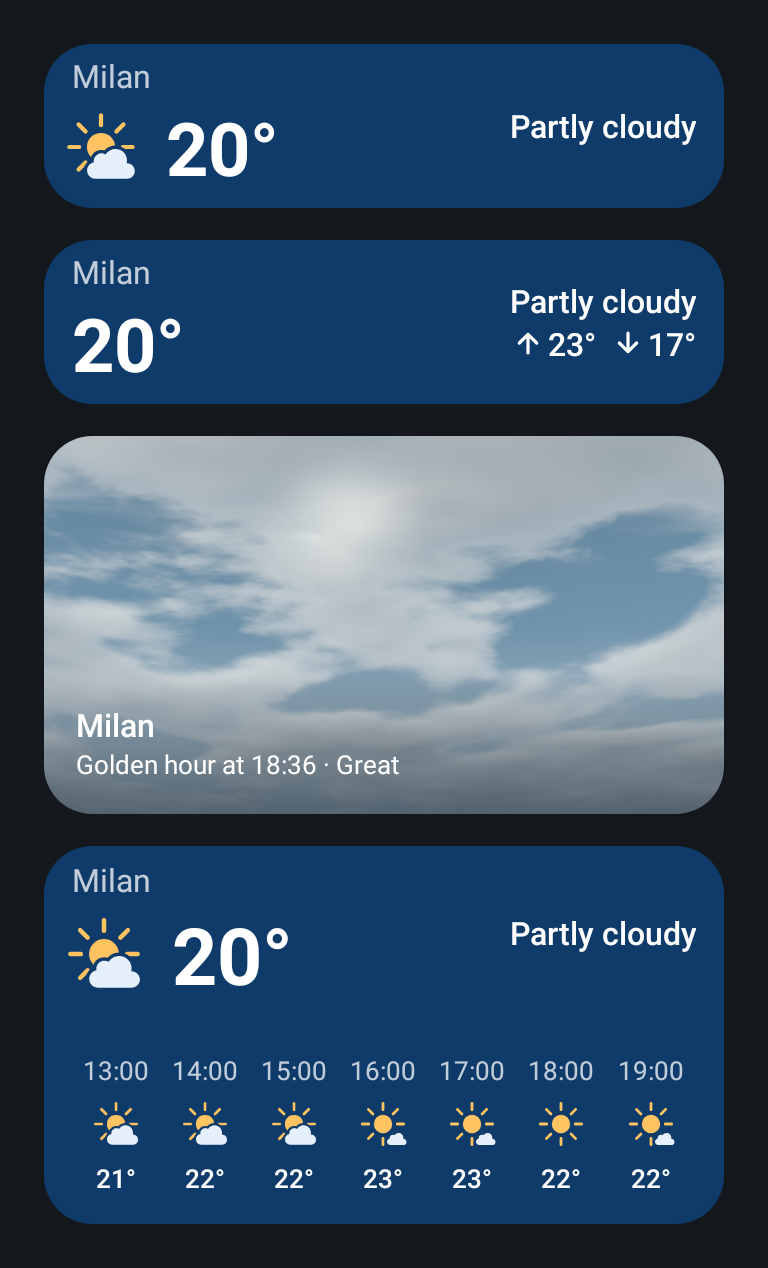
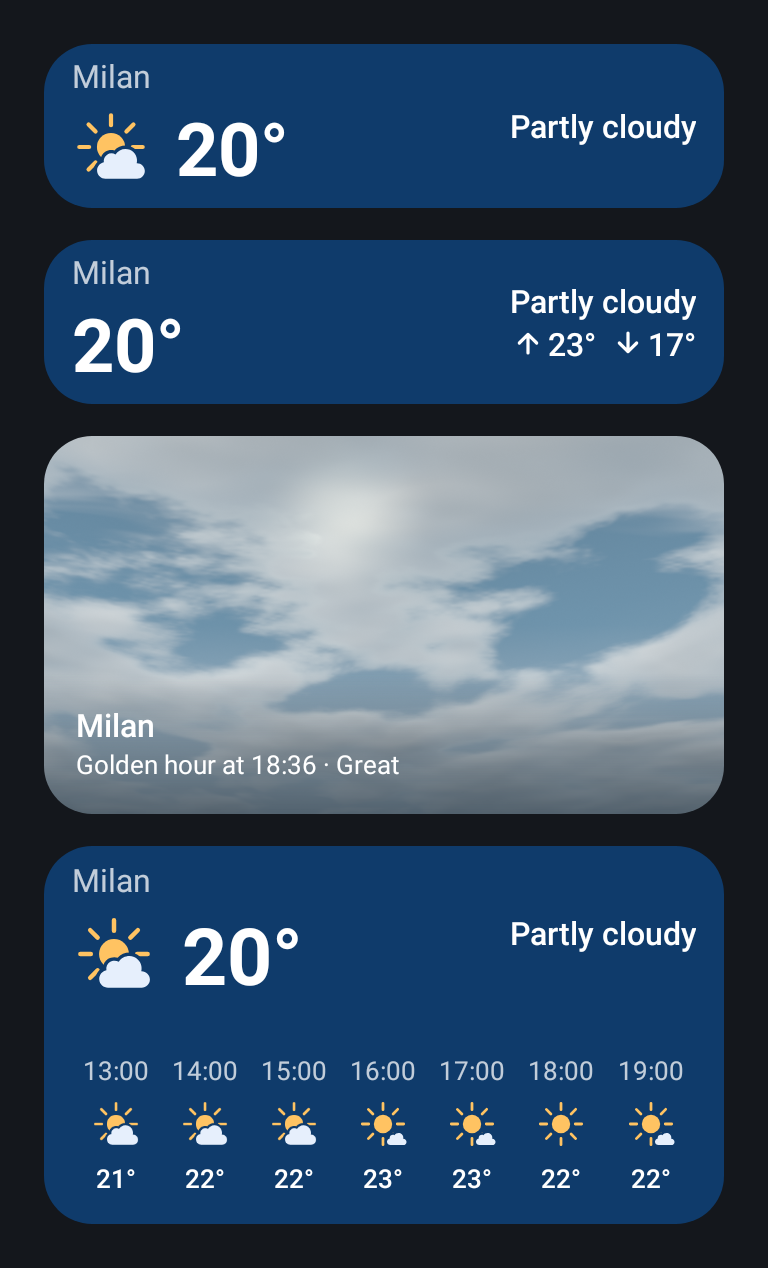
«A colpo d'occhio»: the glyph stands five dp further in
The row's glyph box starts at the card's 4 dp inset and counts on the margin a
drawing keeps inside its box, a share of the box: on the 52 dp glyph of 15 Nov a
cloud's ink stood 8.8 dp from the card's edge under a place that starts at 14.
With NowGlyphShift a cloud's ink is at 13.8, the snow's at 13.3, the sun's at 17.
One number for every drawing; it comes out of the number's line, and no number
changes size on a launcher's 82 dp row. The picker preview follows.

NowWidgetLayoutTest covers it; widgets.png regenerated, the other pictures
identical. DESIGN, CHANGELOG and PLANNING updated, a phone box opened.

diff --git a/app/src/main/kotlin/com/callbackdev/chiaro/widget/NowWidgetLayout.kt b/app/src/main/kotlin/com/callbackdev/chiaro/widget/NowWidgetLayout.kt
@@ -76,14 +76,15 @@ internal val TallMinHeight = 150.dp
  * **What the glyph takes is the number's line, and nothing else.** It stands in front of
  * the number at the number's own line box (39.3 sp is 51.9 dp on the reference 85 dp row),
  * so the place keeps its whole column and the sentence keeps its whole measure; the number
- * moves right by the glyph and its gap, which the 168 dp column has room for at every
- * number this app prints (52 + 8 + 83 for «−12°» is 143). The one thing that is not the
+ * moves right by the glyph, its inset and its gap, which the 168 dp column has room for at
+ * every number this app prints (5 + 52 + 8 + 83 for «−12°» is 148). The one thing that is not the
  * text card's is the warning: here it is the coloured chip, as on every card with a drawing
  * on it, and the column pays the chip's box for it ([warningBlock]).
  *
  * The card's leading inset is the glyph's 4 dp ([WidgetCardPaddingLeading]) and every line
- * of words pays back [NowGlyphEdgeGive], so the glyph's ink and the place's first letter
- * stand on one edge, 14 dp in, as the text card's words do.
+ * of words pays back [NowGlyphEdgeGive], so the place's first letter stands 14 dp in, as
+ * the text card's words do; the glyph stands [NowGlyphShift] further in than the inset, so
+ * a cloud's ink meets that same edge.
  */
 internal fun nowRowIsWide(size: DpSize): Boolean {
     if (textForm(size) != TextForm.ROW) return false
@@ -106,6 +107,26 @@ internal fun nowHeroLine(size: DpSize, wide: Boolean): Dp =
  * the other 10 back, so the place starts where the text card's place starts.
  */
 internal val NowGlyphEdgeGive = WidgetCardPadding - WidgetCardPaddingLeading
+
+/**
+ * How far in from the card's leading inset the row's glyph stands (committente, 16 nov 2026:
+ * «mi sembra un po' troppo vicina al bordo di sinistra»).
+ *
+ * The 4 dp inset counts on the margin a drawing keeps inside its own box, and that margin is
+ * a share of the box: 7.5% for the drizzle, 8.3% for the snow, 9.2% for the cloud and the
+ * rain, 15.5% for the sun (measured on the shipped drawings, drawn at 400 px). On the 66 dp
+ * glyph the card had until 15 nov 2026 the sun's ink stood 14 dp in; on the 52 dp glyph the
+ * row has since then a cloud's stood 8.8 dp in and the sun's 12, against the 14 dp of the
+ * place over them. Five more put the cloud's ink at 13.8, the snow's at 13.3, the sun's at 17: the
+ * widest drawings, the ones that read as touching the edge, land on the words' edge.
+ *
+ * One number for every drawing, not each drawing's own margin: the temperature must not step
+ * sideways when the weather changes. Paid out of the number's line, which has it to spare
+ * wherever the height sets the number: the reference row allows 48.2 sp by width and draws
+ * 39.3, and two cells on a launcher's 82 dp row allow 37.4 and draw 37.0. Only a two-cell
+ * card on a row taller than 82.5 dp pays, a sp and a half at most.
+ */
+internal val NowGlyphShift = 5.dp
 
 /** The height the number may take: the row inside its snug insets, less the place's line
  * and the stale marker's — the text card's own budget. */
@@ -134,7 +155,7 @@ private fun nowGlyphLineSp(size: DpSize, fontScale: Float, stale: Boolean, wide:
 private fun nowGlyphLineWidthSp(size: DpSize, fontScale: Float, wide: Boolean): Float {
     val scale = fontScale.coerceAtLeast(0.1f)
     val perSp = TempEmWidth * scale + textLineHeight(1f, scale).value
-    return (nowHeroLine(size, wide) - IconTextGap).value / perSp
+    return (nowHeroLine(size, wide) - NowGlyphShift - IconTextGap).value / perSp
 }
 
 /**

diff --git a/app/src/test/kotlin/com/callbackdev/chiaro/widget/NowWidgetLayoutTest.kt b/app/src/test/kotlin/com/callbackdev/chiaro/widget/NowWidgetLayoutTest.kt
@@ -149,12 +149,41 @@ class NowWidgetLayoutTest {
                 listOf(1f, 1.15f, 1.3f).forEach { scale ->
                     if (!nowRowShowsIcon(size, scale)) return@forEach
                     val sp = nowRowHeroSp(size, scale, stale = false)
-                    val line = nowRowGlyphSize(size, scale, stale = false) + IconTextGap +
+                    val line = NowGlyphShift + nowRowGlyphSize(size, scale, stale = false) + IconTextGap +
                         (sp * TempEmWidth * scale).dp
                     val wide = nowLayout(size) == NowLayout.WIDE
                     assertTrue("$size @$scale: $line", line <= nowHeroLine(size, wide) + 0.01.dp)
                 }
             }
+    }
+
+    /**
+     * The glyph stands five dp in from the card's inset (16 nov 2026): a cloud keeps 9.2% of
+     * its box empty at the start (measured on the shipped drawing), so on the reference row
+     * its ink stood 8.8 dp from the card's edge, under a place that starts at 14. With the
+     * shift it stands on the words' edge to a quarter of a dp, and the sun's, which keeps
+     * 15.5%, three dp inside it. Where the height sets the number nothing else moves, and
+     * on a launcher's 82 dp row that is every card from two cells up; a two-cell card on a
+     * taller row is the only one whose number pays, a sp and a half at most.
+     */
+    @Test
+    fun `the glyph stands in from the edge, and a cloud's ink meets the words'`() {
+        assertEquals(5f, NowGlyphShift.value, 0.01f)
+        val glyph = nowRowGlyphSize(reference, 1f, stale = false).value
+        val box = WidgetCardPaddingLeading.value + NowGlyphShift.value
+        assertEquals("the cloud's ink", WidgetCardPadding.value, box + 0.092f * glyph, 0.25f)
+        assertEquals("the sun's ink", 17.0f, box + 0.155f * glyph, 0.1f)
+        // Four cells, three cells and the taller rows keep the number they had.
+        assertEquals(39.30f, nowRowHeroSp(reference, 1f, stale = false), 0.01f)
+        assertEquals(textRowHeroSp(fourByOne, 1f, stale = false), nowRowHeroSp(threeByOne, 1f, stale = false), 0.01f)
+        assertEquals(NowLayout.WIDE, nowLayout(fourByOne))
+        assertEquals(NowLayout.NARROW, nowLayout(threeByOne))
+        // Two cells on the launcher's row: the height still sets the number (82 − 12 − 21.12
+        // over 1.32 is 37.03 sp), under the 37.4 the narrower line allows.
+        assertEquals(37.03f, nowRowHeroSp(twoByOne, 1f, stale = false), 0.01f)
+        // On a taller two-cell row the width sets it, and the five dp are a sp and a half.
+        val tallTwo = nowRowHeroSp(DpSize(159.dp, 90.dp), 1f, stale = false)
+        assertTrue("a taller two-cell row: $tallTwo", tallTwo in 37.3f..37.5f)
     }
 
     /** Old data pays for its marker out of the number, as on the text card, and the glyph

diff --git a/app/src/main/kotlin/com/callbackdev/chiaro/widget/NowWidget.kt b/app/src/main/kotlin/com/callbackdev/chiaro/widget/NowWidget.kt
@@ -116,7 +116,11 @@ internal fun NowHeroRow(
             modifier = GlanceModifier.padding(start = NowGlyphEdgeGive)
         )
         Row(verticalAlignment = Alignment.CenterVertically) {
-            if (glyph > 0.dp) HeroIcon(content, model, palette, glyph)
+            if (glyph > 0.dp) {
+                Box(modifier = GlanceModifier.padding(start = NowGlyphShift)) {
+                    HeroIcon(content, model, palette, glyph)
+                }
+            }
             Temperature(
                 content, model, palette, heroSp,
                 modifier = GlanceModifier.padding(

diff --git a/PLANNING.md b/PLANNING.md
@@ -49,7 +49,7 @@ trova più.
   `docs/planning/13-novembre-12.md`; la chiusura (16.11) e la coda in
   `docs/planning/14-novembre-12-16.md`.
 - **Chiusa il 16 nov 2026**: **Fase 14**, il motore contro i motori premium (dal 27 ott 2026): tredici step, uno per chat; i primi quattro (14.1–14.3 con la scadenza del 30 novembre, la visibilità ICON che sparisce; 14.4 la misura di ICON-2I, che ha detto no), il 14.6 (il caldo), il 14.7 (il vento), il 14.8 (la quota neve), il 14.9 (le unità), il 14.10 (la concordanza dei modelli, che ha detto no) e il 14.13 (le icone, prima dell'inverno) sono chiusi; 14.5 e 14.11 non esistono. La revisione, le decisioni, le regole comuni e la descrizione di ogni step sono in `docs/planning/07-ottobre-22-27.md`, «Fase 14 — Il motore contro i motori premium»; gli step chiusi dal 27 ott 2026 e l'attesa di 14.12 sono in `docs/planning/08-ottobre-27-28.md`; il 14.12, l'unico rimasto, è uscito dalla fase il 16 nov 2026 senza essere fatto, ed è in «Da decidere: se e quando» (archivio 14, «Gadgetbridge e gli avvisi fuori dall'Italia escono dalle fasi attive»).
-- **Nessuna fase attiva** dal 16 nov 2026: quel che resta in «Aperto» è una misura che aspetta l'inverno. Il registro fino al 16 nov 2026 è in `docs/planning/14-novembre-12-16.md`.
+- **Nessuna fase attiva** dal 16 nov 2026: quel che resta in «Aperto» sono una prova sul telefono e una misura che aspetta l'inverno. Il registro fino al 16 nov 2026 è in `docs/planning/14-novembre-12-16.md`.
 - **Da decidere: se e quando** (dal 16 nov 2026). Non è una fase attiva e non è lavoro da fare: sono le funzioni che il committente non ha ancora deciso se fare, tutte o alcune, né quando. Stanno in fondo ad «Aperto», sotto il loro titolo; nessuna si comincia senza il suo via, e una che parte torna fra le caselle con la sua fase o il suo step.
 
 ## Aperto
@@ -333,6 +333,9 @@ alla sezione del registro da cui nasce, e si chiude qui, con quella che la chiud
   decisione»).
   Chiusa il 16 nov 2026: la neve di notte vista dal committente sul telefono con la luce
   nuova (registro, «Quel che cade di notte: una luce sua», «Sul telefono»).
+- [ ] **L'icona di «A colpo d'occhio» più dentro, sul telefono** (registro, ««A colpo d'occhio»:
+  l'icona cinque dp più dentro», 16 nov 2026): il 4×1 accanto a «In parole» e al widget di
+  Passo, con il coperto e con il sole; il 2×1; la scheda delle ore.
 - [x] **14.1** La sonda del provider, il quarto d'ora dove è calcolato, le regole (Fase 14). Fatto il 27 ott 2026 (archivio 07, «14.1»).
 - [x] **14.2** La nebbia senza la visibilità di ICON: la misura. Fatto il 27 ott 2026 (archivio 07, «14.2»): la regola scelta entra con 14.3, subito.
 - [x] **14.3** La nebbia senza la visibilità di ICON: il codice, e il tile. Fatto il 27 ott 2026 (archivio 07, «14.3»): la regola di 14.2 è nel motore e vale da oggi, un mese prima di DWD.
@@ -478,3 +481,63 @@ ottima.»
 - **«Dietro le nuvole» anche sulla neve**, più tardi nella stessa chat: «Dietro le nuvole l'ho
   riprovato e funziona sia con neve che con pioggia.» Della casella non resta niente di non
   detto.
+
+## «A colpo d'occhio»: l'icona cinque dp più dentro (committente, 16 nov 2026)
+
+**La richiesta.** «Vorrei che l'icona meteo sia spostata solo pochi punti più a destra, insieme
+alla temperatura attuale alla sua destra. Ora mi sembra un po' troppo vicina al bordo di sinistra
+del widget», con tre domande prima di fare: se è possibile, se rovina il layout o lo spazio dei
+testi e della frase, se sono d'accordo. E poi, dato l'accesso al repo di Passo: «verifica lì
+l'anello a che distanza è dal bordo sinistro, ad esempio in 4×1. Forse il widget di Chiaro è già
+allineato». Sulla risposta, con le misure: «Ok, procedi».
+
+### Cosa ho trovato
+
+- **In Passo l'anello sta a 14 dp** dal bordo della card (`WidgetCardPadding`), e il suo
+  inchiostro arriva al bordo del riquadro (`RingPainter`: il tratto è inscritto).
+- **In Chiaro il riquadro dell'icona parte a 4 dp** (`WidgetCardPaddingLeading`) e conta sul
+  margine che ogni disegno tiene dentro di sé. Quel margine è una quota del riquadro: misurato
+  sui disegni spediti, resi a 400 px, 7,5% la pioviggine, 8,3% la neve, 9,2% la nuvola e la
+  pioggia, 13,3% il temporale, 15,5% il sole. Sull'icona di 52 dp che la riga ha dal 15 nov 2026
+  l'inchiostro stava a 7,9-8,8 dp dal bordo per le nuvole e a 12 per il sole, sotto un nome del
+  luogo che parte a 14; con i dati vecchi (icona di 37 dp) a 6,8-9,8. Il commento del 15 nov
+  («l'inchiostro dell'icona e la prima lettera del luogo stanno sullo stesso bordo a 14 dp»)
+  non era vero: valeva, e solo per il sole, sull'icona di 66 dp di prima.
+- **Non era allineato a Passo**, quindi: fra 2 e 6 dp più vicino al bordo.
+
+### Cosa è cambiato
+
+- **L'icona della riga sta 5 dp più dentro** (`NowGlyphShift`, `NowHeroRow`), e il numero con
+  lei: l'inchiostro di una nuvola a 13,8 dp, della neve a 13,3, della pioviggine a 12,9, del
+  temporale a 15,9, del sole a 17. Le nuvole, i disegni più larghi e quelli che sembravano
+  toccare il bordo, cadono sul bordo delle parole e dell'anello della famiglia.
+- **Una misura sola per ogni disegno**, e non il margine di ciascuno: la temperatura non deve
+  fare un passo di lato quando cambia il tempo.
+- **Vale dove c'è la riga**: il 4×1, il 3×1, il 2×1 e la testa della scheda delle ore. La forma
+  alta (due righe) non cambia: lì l'icona è grande e il suo margine pure.
+- **L'anteprima nel selettore dei widget** (`widget_now_preview.xml`) ha gli stessi 5 dp.
+
+### Cosa costa
+
+- **Ai testi niente**: il nome del luogo, la frase, la massima e la minima, il chip dell'allerta
+  e la riga dei dati vecchi non si muovono. I 5 dp escono dalla riga del numero, dentro la
+  colonna del luogo (168 dp): icona, spazio e numero più largo fanno 148 dp invece di 143.
+- **Al numero niente, sul launcher del committente**: dove è l'altezza a decidere il numero
+  (riga da 82 dp: 39,3 sp a quattro celle sulla riga di riferimento, 37,0 a due) la larghezza
+  ne avanza ancora. Avevo detto a lui che il 2×1 avrebbe perso un sp e mezzo: era il conto
+  sulla riga di riferimento da 85 dp, non sulla sua; lo perde solo una card a due celle su
+  una riga più alta di 82,5 dp.
+
+### Come è stato verificato
+
+`NowWidgetLayoutTest`: il caso nuovo (i 5 dp, l'inchiostro della nuvola sul bordo delle parole a
+un quarto di dp, il sole a 17, i numeri di quattro, tre e due celle fermi, la riga alta a due
+celle che paga), e «l'icona, lo spazio e il numero più largo stanno nella riga» con i 5 dp
+dentro, a 1, 1,15 e 1,3 di carattere; tutti i test dei widget. Una tavola resa, quattro
+spostamenti (0, 4, 5, 6 dp) per sei tempi e la scheda delle ore, con la linea dei 14 dp:
+guardata, a 5 la nuvola sta sulla linea. `widgets.png` del README rigenerata e guardata; le
+altre quindici identiche. La suite intera la lancia la CI.
+
+### Cosa conferma solo il telefono
+
+La casella «L'icona di "A colpo d'occhio" più dentro, sul telefono», in «Aperto».

diff --git a/DESIGN.md b/DESIGN.md
@@ -1504,8 +1504,16 @@ with their ↑ ↓ marks. The glyph is the number's own line box (51.9dp beside 
 reference 85dp row), so it takes no width from the place's column and no height from the
 row: «Cavenago di Brianza» prints whole on the four-by-one, where the full-height glyph had
 cut it to «Cavenago di Bri…». The card's leading inset is the glyph's 4dp, and every line of
-words pays 10 back, so the glyph's ink and the place's first letter share the words' 14dp
-edge. The one difference from the text card is the warning, a coloured chip here as on every
+words pays 10 back, so the place's first letter stands on the words' 14dp edge. **The glyph
+stands 5dp further in than the inset** (`NowGlyphShift`, 16 nov 2026, committente, with the
+card beside the family's: the drawing read as too close to the edge). The inset counts on
+the margin a drawing keeps inside its box, which is a share of the box (9.2% for a cloud,
+15.5% for the sun, measured on the shipped drawings), and on the 52dp glyph a cloud's ink
+stood 8.8dp from the card's edge, under a place that starts at 14 and beside a ring that
+inks its box to the edge at 14. With the five, a cloud's ink is at 13.8dp, the snow's at
+13.3 and the sun's at 17. One number for every drawing, so the temperature does not step
+sideways when the weather changes; it comes out of the number's line, which has it to spare
+on every one-row card of a launcher's 82dp row. The one difference from the text card is the warning, a coloured chip here as on every
 card with a drawing, budgeted at its own box. The second arrangement (glyph at the far edge)
 went the same day.
 

diff --git a/CHANGELOG.md b/CHANGELOG.md
@@ -187,6 +187,9 @@ sections are a normal size and live here alone.
 - **Picking an hour on a phone held sideways.** The clock for an alert's hours did not fit a
   low window and was cut. It now comes with a button to type the hour instead, and a window
   too low for the clock shows the two fields alone.
+- **The icon of «At a glance» stands clear of the card's edge.** The drawing and the
+  temperature beside it sit five dp further in, so a cloud starts where the place's name over
+  it does; it stood closer to the edge than anything else on the card.
 - **Today's high and low on the one-row «At a glance».** With the switch on, a card four
   cells wide now prints them at the far edge under the sentence; until now only the card
   three cells by two did, and the switch looked broken on the other.
